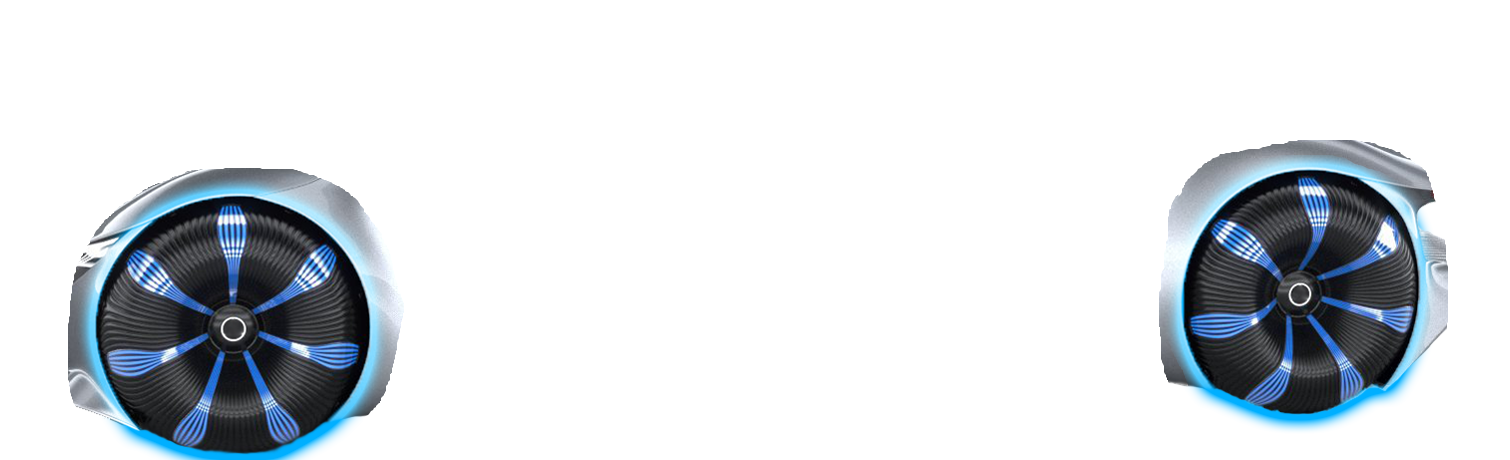
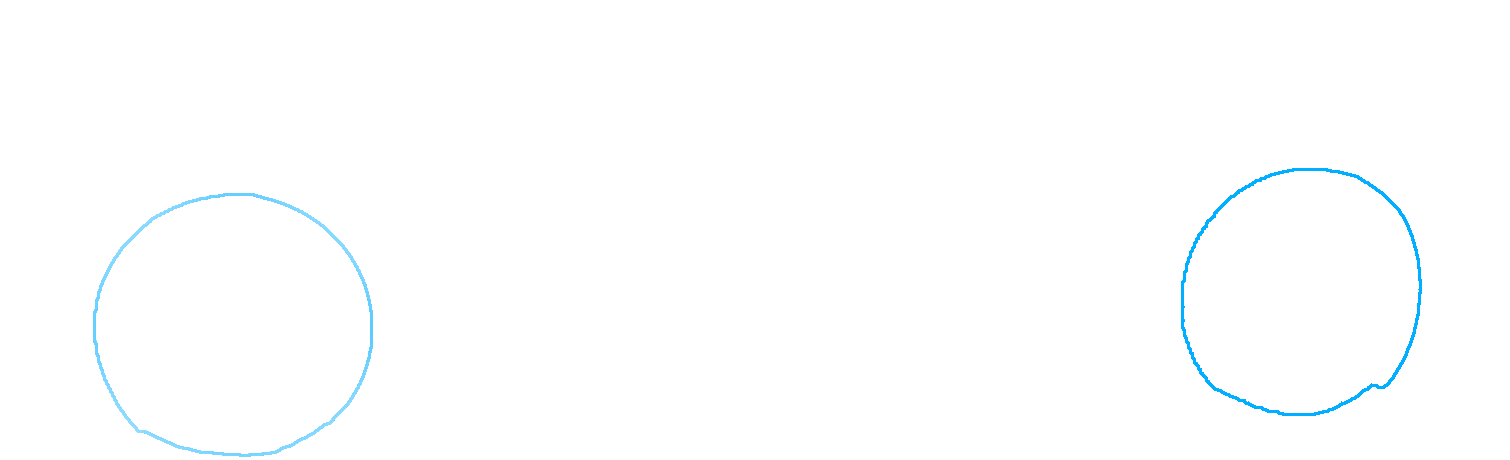
car wheels overlay

Changed region(s): [[0.0311, 0.3652, 0.2801, 1.0], [0.747, 0.3043, 0.9649, 0.9435]]

diff --git a/js/index.js b/js/index.js
@@ -209,7 +209,7 @@ class App extends React.Component {
       <div>
         <Colour colour="blue" position="calc(100% + 15vw)" onClick={() => this.wheelReset()} delay="0s" />
         <Colour colour="black" position="calc(100% + 25vw)" onClick={() => this.wheelSelect("black")} delay="0.3s" />
-        <Colour colour="pink" position="calc(100% + 35vw)" onClick={() => this.wheelSelect("white")} delay="0.6s" />
+        <Colour colour="white" position="calc(100% + 35vw)" onClick={() => this.wheelSelect("white")} delay="0.6s" />
       </div>,
       document.getElementById('wheel-colour')
     );
@@ -226,7 +226,7 @@ class App extends React.Component {
   }
 
   wheelReset () {
-    this.setState({wheels: "metal"});
+    this.setState({wheels: "blue"});
     ReactDOM.render(
       <div></div>,
       document.getElementById('wheel-overlay')
